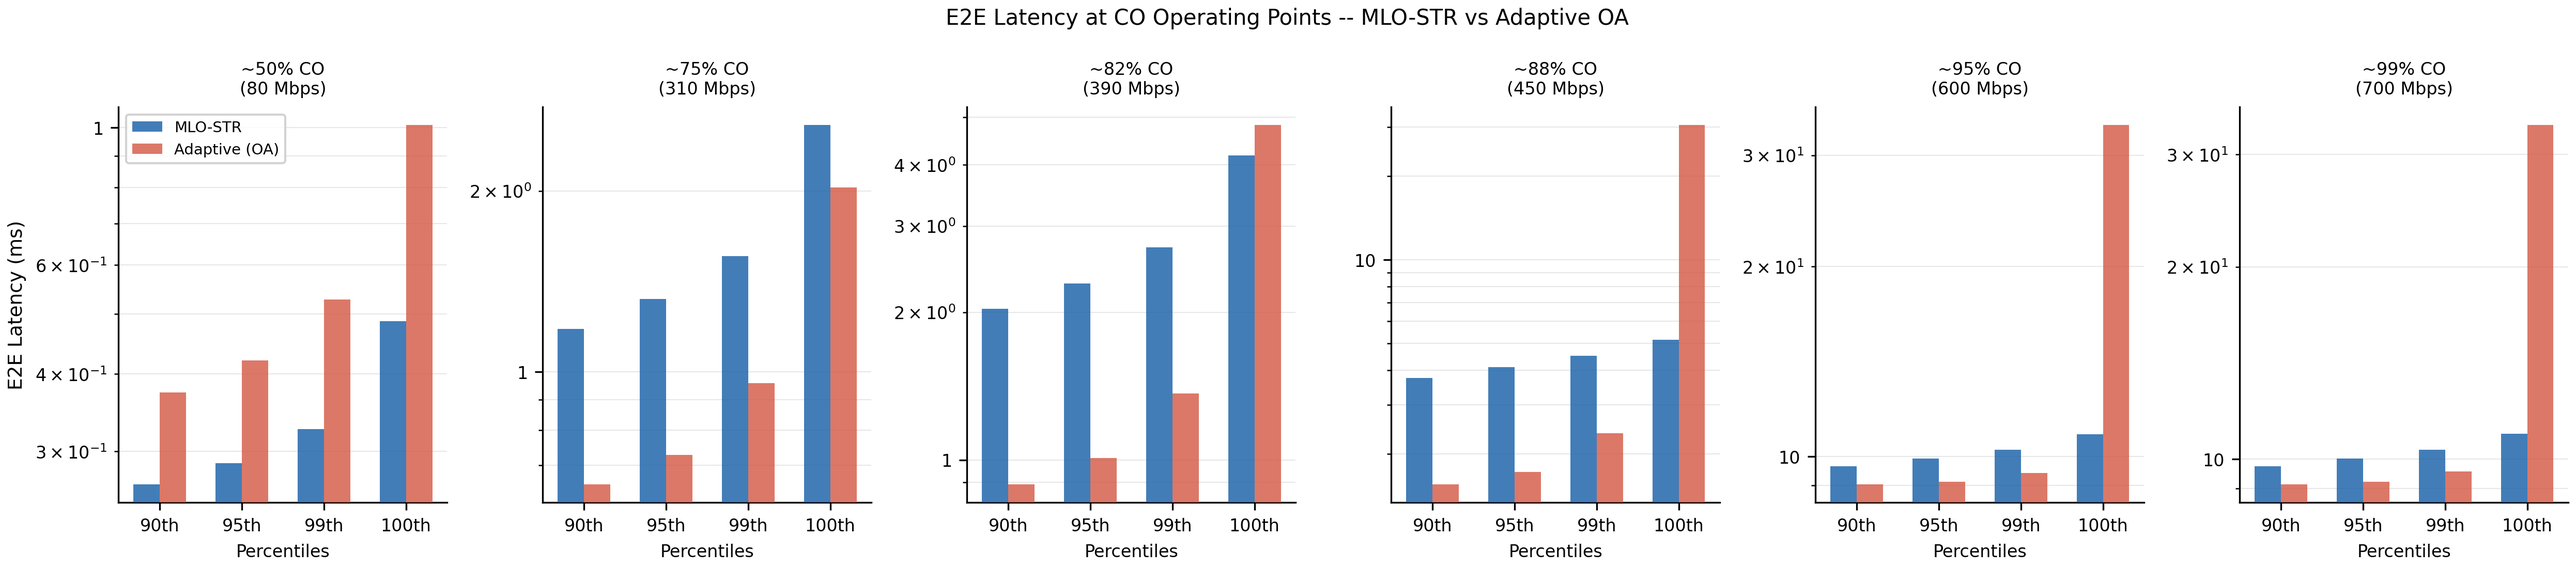
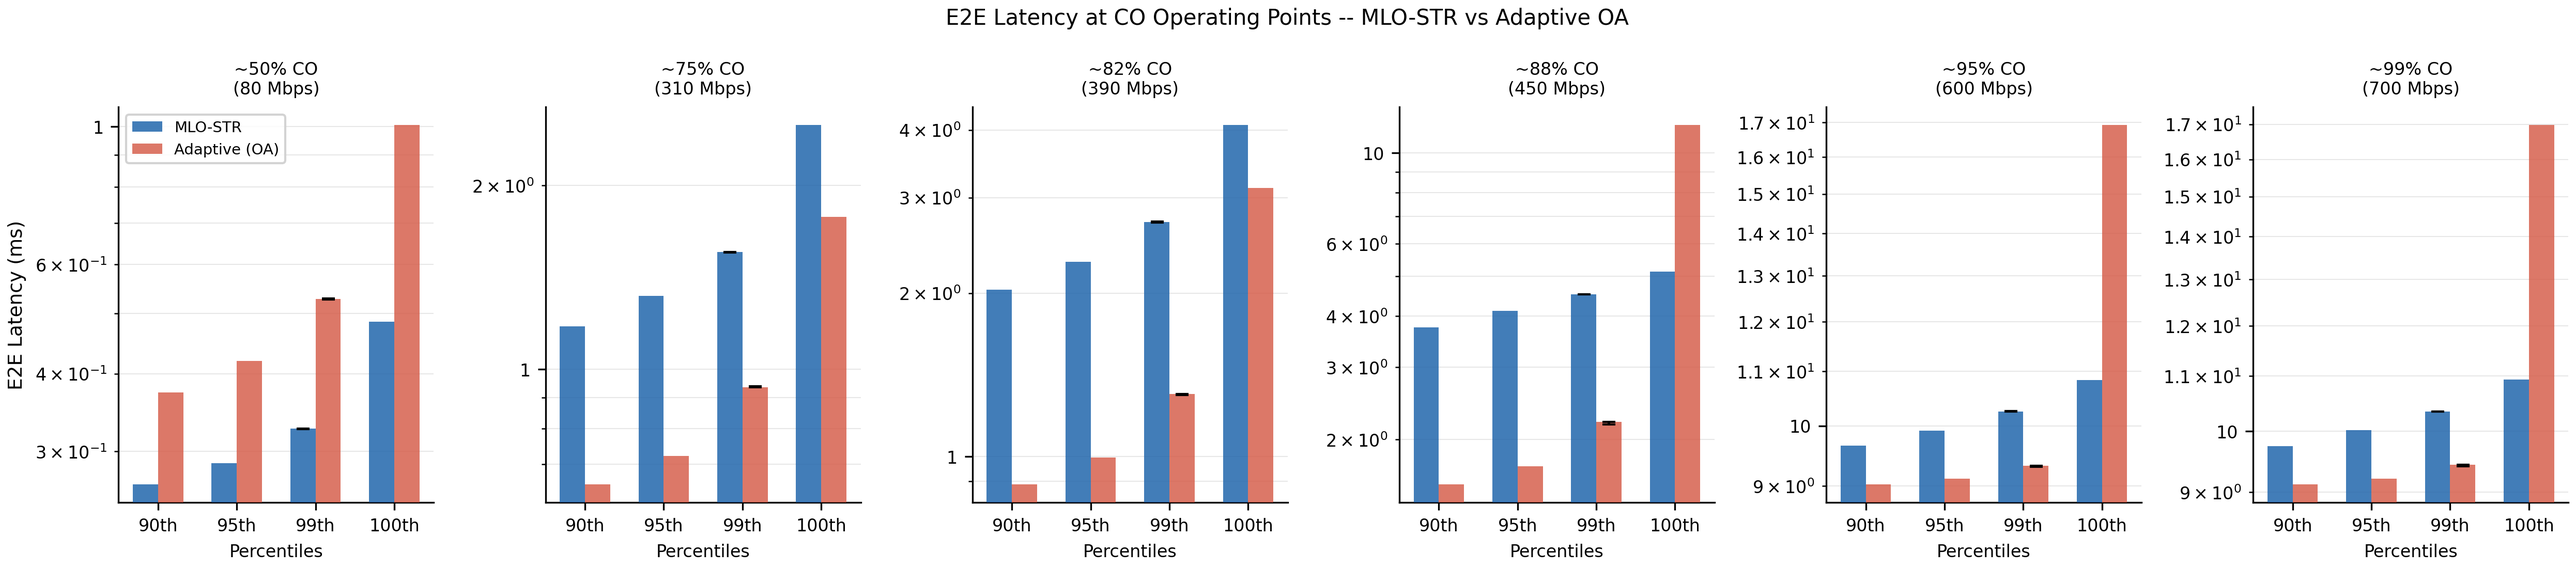
Day-2 statistical rigor: 10 seeds, bootstrap CIs, Mann-Whitney
* Extend seeds from 3 to 10 (84 new parallel runs at 28 cores);
  comparative/summary.csv now has 120 rows (2x6x10)
* analyze_mlo_v3.py: add bootstrap_ci() (2000 resample, 95% CI on P99),
  add mann_whitney_p99() using scipy.stats; add --seeds CLI arg that
  auto-detects seeds from summary; P99 bars in fig5 now carry error
  bars; Mann-Whitney table printed after figure generation
* Result: p<0.05 at all 6 operating points; saturation regime shows
  p=5.7e-6 (600 Mbps) and p=3.4e-113 (700 Mbps)

diff --git a/src/analyze_mlo_v3.py b/src/analyze_mlo_v3.py
@@ -30,8 +30,41 @@ import matplotlib.pyplot as plt
 import matplotlib.ticker as mticker
 import numpy as np
 import pandas as pd
+from scipy import stats as scipy_stats
 
 warnings.filterwarnings("ignore")
+
+
+def bootstrap_ci(data, stat_fn=np.percentile, stat_args=(99,),
+                 n_boot=2000, ci=0.95, rng=None):
+    """Return (lo, hi) bootstrap CI for stat_fn(data, *stat_args)."""
+    if rng is None:
+        rng = np.random.default_rng(42)
+    data = np.asarray(data)
+    if len(data) < 2:
+        point = stat_fn(data, *stat_args)
+        return point, point
+    boots = [stat_fn(rng.choice(data, len(data), replace=True), *stat_args)
+             for _ in range(n_boot)]
+    alpha = (1 - ci) / 2
+    return float(np.percentile(boots, alpha * 100)), float(np.percentile(boots, (1 - alpha) * 100))
+
+
+def mann_whitney_p99(comp_dir, load, seeds):
+    """
+    Return Mann-Whitney U p-value comparing per-packet latency
+    of STR (sched=0) vs Adaptive (sched=1) at the given load.
+    """
+    samples = {0: [], 1: []}
+    for sched in [0, 1]:
+        for seed in seeds:
+            df = load_samples_csv(comp_dir, sched, load, seed, max_rows=100000)
+            if df is not None and "latency_ms" in df.columns:
+                samples[sched].extend(df["latency_ms"].tolist())
+    if not samples[0] or not samples[1]:
+        return np.nan
+    _, p = scipy_stats.mannwhitneyu(samples[0], samples[1], alternative="two-sided")
+    return p
 
 
 def setup_style():
@@ -365,6 +398,7 @@ def fig_summary_bars(comp_df, comp_dir, ops, plots_dir, seeds=(1, 2, 3)):
     X-axis: percentile groups (90th, 95th, 99th, 100th).
     Y-axis: E2E latency (ms), log scale.
     Two bars per group: MLO-STR (blue) vs Adaptive OA (red).
+    P99 bars carry 95% bootstrap CI error bars.
     Matches style of Fig 1(b)/2(b) in Kulshrestha et al. IFIP 2024.
     """
     op_items  = sorted(ops.items())
@@ -373,31 +407,30 @@ def fig_summary_bars(comp_df, comp_dir, ops, plots_dir, seeds=(1, 2, 3)):
     x         = np.arange(len(pct_names))
     w         = 0.32
 
-    # Aggregate p90, p99, max from summary; p95 from samples
     op_loads = [info["load"] for _, info in op_items]
-    op_pcts  = {info["load"]: pct for pct, info in op_items}
 
-    # Build per-(sched, load) percentile table
-    # p90, p99, max come from summary; p95 computed from samples
+    # p90, p99, max from summary (mean over seeds)
     grp_sum = comp_df[comp_df["load_mbps"].isin(op_loads)].groupby(
         ["sched", "load_mbps"])[["p90_ms", "p99_ms", "max_ms"]].mean().reset_index()
 
-    # Compute p95 from samples.csv (pooled over seeds)
-    p95_records = []
+    # p95 + bootstrap CI on p99 from pooled samples across all seeds
+    stats_records = []
     for sched in [0, 1]:
         for load in op_loads:
             vals = []
             for seed in seeds:
-                df = load_samples_csv(comp_dir, sched, load, seed, max_rows=50000)
+                df = load_samples_csv(comp_dir, sched, load, seed, max_rows=100000)
                 if df is not None and "latency_ms" in df.columns:
                     vals.extend(df["latency_ms"].tolist())
             if vals:
-                p95_records.append({
-                    "sched": sched,
-                    "load_mbps": load,
-                    "p95_ms": float(np.percentile(vals, 95))
+                p95_val = float(np.percentile(vals, 95))
+                ci_lo, ci_hi = bootstrap_ci(vals, np.percentile, (99,))
+                stats_records.append({
+                    "sched": sched, "load_mbps": load,
+                    "p95_ms": p95_val,
+                    "p99_ci_lo": ci_lo, "p99_ci_hi": ci_hi,
                 })
-    p95_df = pd.DataFrame(p95_records) if p95_records else None
+    stats_df = pd.DataFrame(stats_records) if stats_records else None
 
     fig, axes = plt.subplots(1, n_ops, figsize=(2.8 * n_ops, 3.8), sharey=False)
     if n_ops == 1:
@@ -417,16 +450,23 @@ def fig_summary_bars(comp_df, comp_dir, ops, plots_dir, seeds=(1, 2, 3)):
             p100 = float(row_sum["max_ms"].values[0])
 
             p95 = np.nan
-            if p95_df is not None and not p95_df.empty:
-                r95 = p95_df[(p95_df["sched"] == sched) & (p95_df["load_mbps"] == load)]
-                if not r95.empty:
-                    p95 = float(r95["p95_ms"].values[0])
+            p99_err_lo = p99_err_hi = 0.0
+            if stats_df is not None and not stats_df.empty:
+                rs = stats_df[(stats_df["sched"] == sched) & (stats_df["load_mbps"] == load)]
+                if not rs.empty:
+                    p95 = float(rs["p95_ms"].values[0])
+                    p99_err_lo = max(0.0, p99 - float(rs["p99_ci_lo"].values[0]))
+                    p99_err_hi = max(0.0, float(rs["p99_ci_hi"].values[0]) - p99)
 
             heights = [p90, p95, p99, p100]
             offset  = (i - 0.5) * w
-            bars = ax.bar(x + offset, heights, w,
-                          color=SCHED_COLOR[sched], alpha=0.85,
-                          label=name, zorder=3)
+            ax.bar(x + offset, heights, w,
+                   color=SCHED_COLOR[sched], alpha=0.85,
+                   label=name, zorder=3)
+            # P99 error bar (index 2)
+            ax.errorbar(x[2] + offset, p99,
+                        yerr=[[p99_err_lo], [p99_err_hi]],
+                        fmt="none", color="black", capsize=3, lw=1.2, zorder=4)
 
         ax.set_yscale("log")
         ax.yaxis.set_major_formatter(mticker.FuncFormatter(
@@ -449,6 +489,18 @@ def fig_summary_bars(comp_df, comp_dir, ops, plots_dir, seeds=(1, 2, 3)):
     out = os.path.join(plots_dir, "fig5_latency_percentiles.png")
     fig.savefig(out); plt.close(fig)
     print(f"  [OK] {out}")
+
+
+def print_mannwhitney(comp_dir, ops, seeds):
+    """Print Mann-Whitney U p-values for each operating point."""
+    print("\nMann-Whitney U test (per-packet latency, STR vs Adaptive OA):")
+    print(f"  {'Load (Mbps)':<14} {'Target CO':<12} {'p-value':<12} {'Significant'}")
+    for pct, info in sorted(ops.items()):
+        load = info["load"]
+        p = mann_whitney_p99(comp_dir, load, seeds)
+        sig = "YES (p<0.05)" if (not np.isnan(p) and p < 0.05) else "no"
+        p_str = f"{p:.3e}" if not np.isnan(p) else "N/A"
+        print(f"  {int(load):<14} {int(pct*100):>3}%         {p_str:<12} {sig}")
 
 
 # ── Fig 6: CO overlay ─────────────────────────────────────────────────────────
@@ -631,6 +683,8 @@ def main():
     ap.add_argument("--plots-dir",  default="scratch/mlo_results_v4/plots_v4")
     ap.add_argument("--op-loads",   default=None,
                     help="Space-separated loads (e.g. '80 310 390 450 600 700')")
+    ap.add_argument("--seeds",      default=None,
+                    help="Space-separated seeds (default: all seeds found in summary)")
     args = ap.parse_args()
 
     setup_style()
@@ -646,9 +700,14 @@ def main():
         print("ERROR: comparative data missing"); return
     print(f"Comparative rows: {len(comp_df)}")
 
+    # Determine seeds: explicit list or all unique seeds in the data
+    if args.seeds:
+        seeds = tuple(int(s) for s in args.seeds.split())
+    else:
+        seeds = tuple(sorted(comp_df["seed"].dropna().astype(int).unique()))
+    print(f"Seeds used: {seeds}")
+
     op_loads_list = [float(x) for x in args.op_loads.split()] if args.op_loads else None
-    # Assign explicit target CO labels for each override load so that
-    # saturation loads (600, 700 Mbps) get distinct 0.95 / 0.99 labels
     LOAD_TO_TARGET = {80: 0.50, 310: 0.75, 390: 0.82, 450: 0.88,
                       600: 0.95, 700: 0.99}
     op_target_labels = (
@@ -656,7 +715,7 @@ def main():
         if op_loads_list else None
     )
     if op_target_labels and any(t is None for t in op_target_labels):
-        op_target_labels = None  # fall back to auto if unknown loads given
+        op_target_labels = None
     ops = find_operating_points(calib_df,
                                 targets=(0.50, 0.75, 0.82, 0.88),
                                 op_loads_override=op_loads_list,
@@ -665,14 +724,16 @@ def main():
 
     print("\nGenerating figures...")
     fig_calibration(calib_df, ops, args.plots_dir)
-    fig_co_timeseries(args.comp_dir, ops, args.plots_dir, seed=1)
-    fig_latency_timeseries(args.comp_dir, ops, args.plots_dir, seed=1)
-    fig_p_tid1(args.comp_dir, ops, args.plots_dir, seed=1)
-    fig_summary_bars(comp_df, args.comp_dir, ops, args.plots_dir, seeds=(1, 2, 3))
-    fig_co_overlay(args.comp_dir, ops, args.plots_dir, seed=1)
-    fig_latency_cdf(args.comp_dir, ops, args.plots_dir, seeds=(1, 2, 3))
-    fig_boxplots(args.comp_dir, ops, args.plots_dir, seeds=(1, 2, 3))
-    print("Done.")
+    fig_co_timeseries(args.comp_dir, ops, args.plots_dir, seed=seeds[0])
+    fig_latency_timeseries(args.comp_dir, ops, args.plots_dir, seed=seeds[0])
+    fig_p_tid1(args.comp_dir, ops, args.plots_dir, seed=seeds[0])
+    fig_summary_bars(comp_df, args.comp_dir, ops, args.plots_dir, seeds=seeds)
+    fig_co_overlay(args.comp_dir, ops, args.plots_dir, seed=seeds[0])
+    fig_latency_cdf(args.comp_dir, ops, args.plots_dir, seeds=seeds)
+    fig_boxplots(args.comp_dir, ops, args.plots_dir, seeds=seeds)
+
+    print_mannwhitney(args.comp_dir, ops, seeds)
+    print("\nDone.")
 
 
 if __name__ == "__main__":
